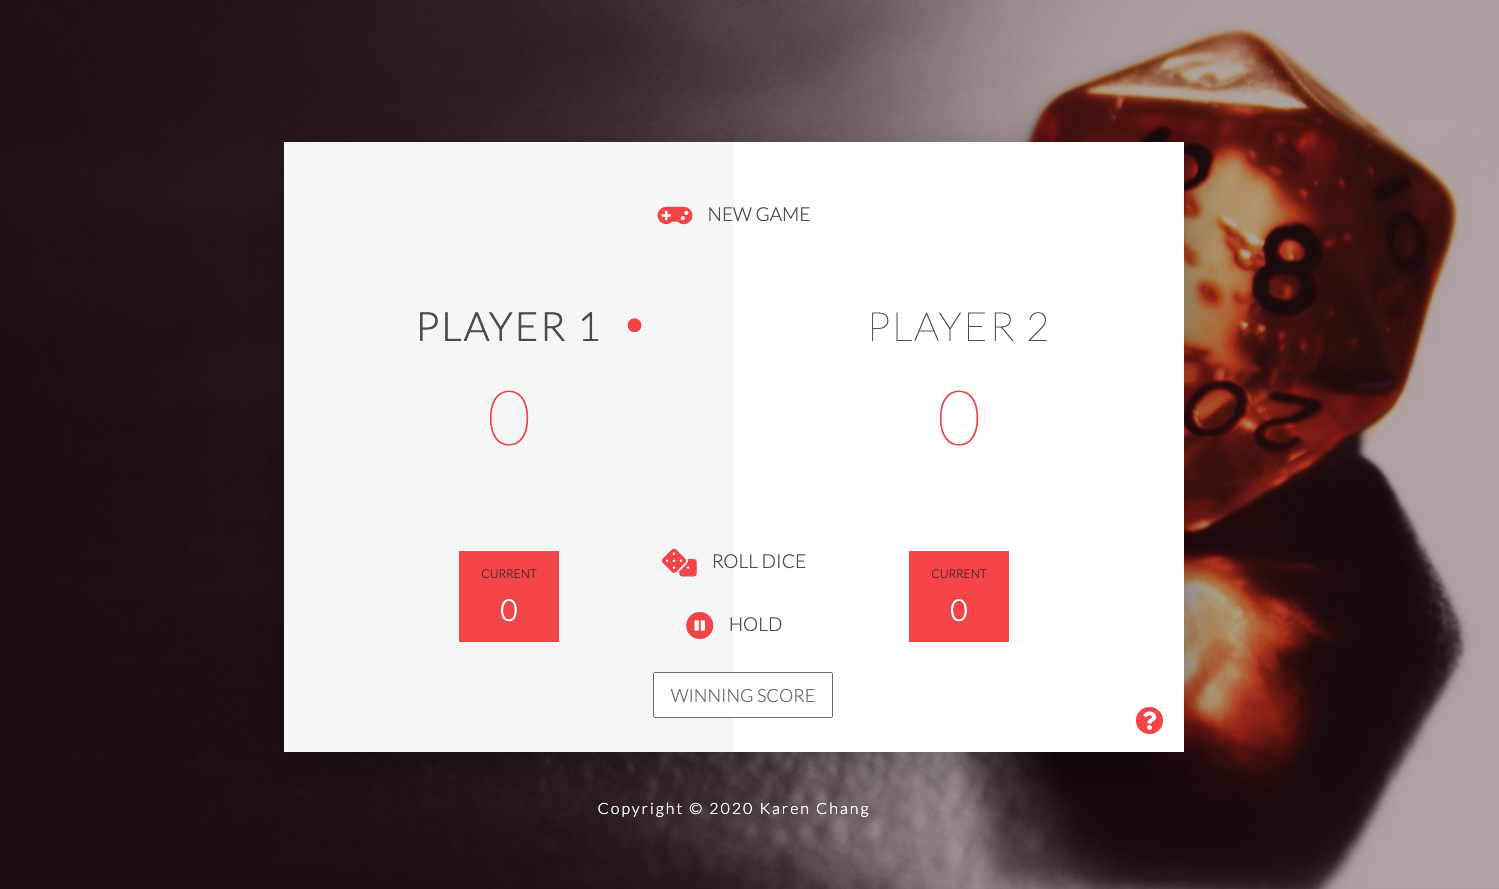
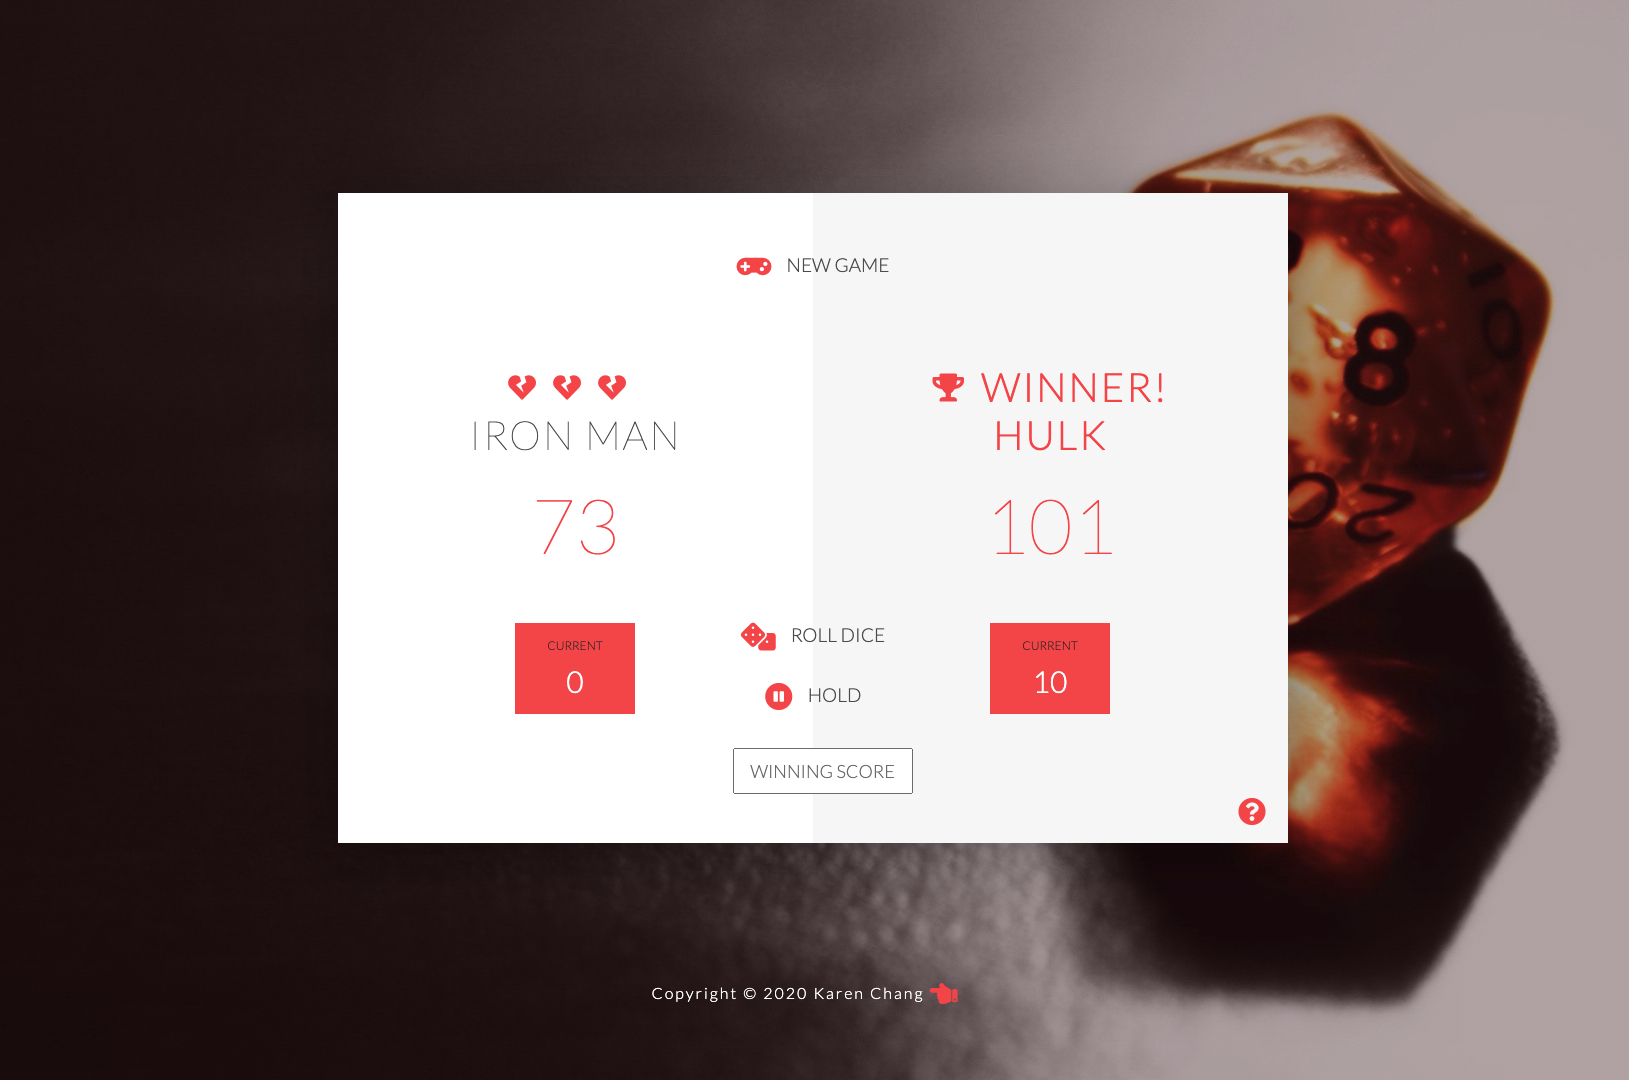
Update game rules

diff --git a/app.js b/app.js
@@ -17,18 +17,20 @@ init();
 document.querySelector('.btn-roll').addEventListener('click', function() {
     if(gamePlaying) {
         // 1. Random number
-        var dice = Math.floor(Math.random() * 6) + 1;
+        var dice1 = Math.floor(Math.random() * 6) + 1;
+        var dice2 = Math.floor(Math.random() * 6) + 1;
 
-        // 2. Display the result
-        var diceDOM = document.querySelector('.dice');
-        diceDOM.style.display = 'block';
-        diceDOM.src = 'dice-' + dice + '.png';
+        //2. Display the result
+        document.getElementById('dice-1').style.display = 'block';
+        document.getElementById('dice-2').style.display = 'block';
+        document.getElementById('dice-1').src = 'dice-' + dice1 + '.png';
+        document.getElementById('dice-2').src = 'dice-' + dice2 + '.png';
 
-        // 3. Update the round score if the rolled number was not a 1
-        if (dice !== 1) {
+        //3. Update the round score IF the rolled number was NOT a 1
+        if (dice1 !== 1 && dice2 !== 1) {
             //Add score
-            roundScore += dice;
-            document.getElementById('current-' + activePlayer).textContent = roundScore;
+            roundScore += dice1 + dice2;
+            document.querySelector('#current-' + activePlayer).textContent = roundScore;
         } else {
             //Next player
             nextPlayer();
@@ -58,8 +60,16 @@ document.querySelector('.btn-hold').addEventListener('click', function() {
         
         // Check if player won the game
         if (scores[activePlayer] >= winningScore) {
-            document.getElementById('name-' + activePlayer).innerHTML = '<i class="fas fa-trophy"></i>Winner!';
-            document.querySelector('.dice').style.display = 'none';
+            document.getElementById('name-' + activePlayer).insertAdjacentHTML('afterbegin', '<i class="fas fa-trophy"></i></i>winner!<br>');
+
+           if (activePlayer === 0){
+                document.getElementById('name-1').insertAdjacentHTML('afterbegin', '<i class="fas fa-heart-broken"></i><i class="fas fa-heart-broken"></i><i class="fas fa-heart-broken"></i><br>');
+            } else if (activePlayer === 1){
+                document.getElementById('name-0').insertAdjacentHTML('afterbegin', '<i class="fas fa-heart-broken"></i><i class="fas fa-heart-broken"></i><i class="fas fa-heart-broken"></i><br>');
+            }
+
+            document.getElementById('dice-1').style.display = 'none';
+            document.getElementById('dice-2').style.display = 'none';
             document.querySelector('.player-' + activePlayer + '-panel').classList.add('winner');
             document.querySelector('.player-' + activePlayer + '-panel').classList.remove('active');
             gamePlaying = false;
@@ -72,27 +82,14 @@ document.querySelector('.btn-hold').addEventListener('click', function() {
 
 // NEW GAME
 document.querySelector('.btn-new').addEventListener('click', init);
-
-function nextPlayer() {    
-    activePlayer === 0 ? activePlayer = 1 : activePlayer = 0;
-    roundScore = 0;
-
-    document.getElementById('current-0').textContent = '0';
-    document.getElementById('current-1').textContent = '0';
-
-    document.querySelector('.player-0-panel').classList.toggle('active');
-    document.querySelector('.player-1-panel').classList.toggle('active');
-   
-    document.querySelector('.dice').style.display = 'none';
-}
-
 function init() {
     scores = [0, 0];
     activePlayer = 0;
     roundScore = 0;
     gamePlaying = true;
-    
-    document.querySelector('.dice').style.display = 'none';
+
+    document.getElementById('dice-1').style.display = 'none';
+    document.getElementById('dice-2').style.display = 'none';
 
     document.getElementById('score-0').textContent = '0';
     document.getElementById('score-1').textContent = '0';
@@ -105,6 +102,21 @@ function init() {
     document.querySelector('.player-0-panel').classList.remove('active');
     document.querySelector('.player-1-panel').classList.remove('active');
     document.querySelector('.player-0-panel').classList.add('active');
+}
+
+// NEXT PLAYER
+function nextPlayer() {    
+    activePlayer === 0 ? activePlayer = 1 : activePlayer = 0;
+    roundScore = 0;
+
+    document.getElementById('current-0').textContent = '0';
+    document.getElementById('current-1').textContent = '0';
+
+    document.querySelector('.player-0-panel').classList.toggle('active');
+    document.querySelector('.player-1-panel').classList.toggle('active');
+
+    document.getElementById('dice-1').style.display = 'none';
+    document.getElementById('dice-2').style.display = 'none';
 }
 
 // HELP

diff --git a/index.html b/index.html
@@ -13,7 +13,7 @@
         
         <div class="wrapper clearfix">
             <div class="player-0-panel active">
-                <div class="player-name" id="name-0">Player 1</div>
+                <div class="player-name" id="name-0" contenteditable="true">Player 1</div>
                 <div class="player-score" id="score-0">43</div>
                 <div class="player-current-box">
                     <div class="player-current-label">Current</div>
@@ -22,7 +22,7 @@
             </div>
             
             <div class="player-1-panel">
-                <div class="player-name" id="name-1">Player 2</div>
+                <div class="player-name" id="name-1" contenteditable="true">Player 2</div>
                 <div class="player-score" id="score-1">72</div>
                 <div class="player-current-box">
                     <div class="player-current-label">Current</div>
@@ -39,24 +39,30 @@
             <!-- Trigger/Open The help -->
             <button id="helpBtn" class="btn-help"><i class="fas fa-question-circle"></i></button>
 
-            <img src="dice-5.png" alt="Dice" class="dice">             
+            <img src="dice-5.png" alt="Dice" class="dice" id="dice-1">
+            <img src="dice-5.png" alt="Dice" class="dice" id="dice-2">           
     
         </div>
                
         <div class="copyright">  
-            <p>Copyright © 2020 Karen Chang</p>
+            <a class="mysite" href="https://karen-developer.com" target="_blank">Copyright © 2020 Karen Chang <i class="fas fa-hand-point-left"></i></a>
         </div>
 
         <!-- Help -->
         <div id="help" class="help">
            <div class="help-content">
               <span class="close">&times;</span>
-                 <p>Each turn, a player repeatedly rolls a die until either a 1 is rolled or the player decides to "hold":</p>
-                 <p>If the player rolls a 1, they score nothing and it becomes the next player's turn.</p>
-                 <p>If the player rolls any other number, it is added to their turn total and the player's turn continues.</p>
-                 <p>If a player chooses to "hold", their turn total is added to their score, and it becomes the next player's turn.</p>             
+                <h2>Game Rules</h2>                
+                 <p>Each turn, a player repeatedly rolls two dice until either a 1 is rolled or the player decides to "hold":</p>
+                 <ul>
+                 <li>If the player rolls a 1, they score nothing and it becomes the next player's turn.</li>
+                 <li>If the player rolls any other number, it is added to their turn total and the player's turn continues.</li>
+                 <li>If a player chooses to "hold", their turn total is added to their score, and it becomes the next player's turn.</li>             
+                </ul>                
                  <p>The first player to score 100 or more points wins.</p>
-                 <p>(Or you can manually set the winning score.)</p>
+                 <hr>
+                 <p> 🎲 You can manually set the WINNING SCORE.</p>
+                 <p> 🖌 You can click on PLAYER 1 or 2 to change their names.</p>
             </div>
         </div>       
 

diff --git a/style.css b/style.css
@@ -26,18 +26,49 @@ body {
     color: #555;
 }
 
-.copyright {
+h2 {
     text-align: center;
-    color:white;
+    text-transform: uppercase;
+    margin-bottom: 30px;
+}
+
+li {
+    margin-left: 50px;
+}
+
+hr {
+    margin: 20px 0;
+}
+
+.copyright {
+    display: flex;
+    flex-direction: column;
+    justify-content: center;
+    align-items: center;
+    text-align: center;    
     letter-spacing: 2px;
     position: relative;
-    top: 90%;
+    top: 91%;    
+}
+
+.mysite {
+    color:white;
+    text-decoration: none;
+    transition: transform 0.3s ease-out;
+}
+
+.mysite:hover {
+    transform: translateY(3px);
+}
+
+  .mysite i {
+    margin-top: -3px;
 }
 
 .wrapper {
-    width: 900px;
+    width: 950px;    
     position: absolute;
-    top: 50%;
+    top: 48%;
     left: 50%;
     transform: translate(-50%, -50%);
     background-color: #fff;
@@ -48,6 +79,7 @@ body {
 .player-0-panel,
 .player-1-panel {
     width: 50%;
+    height: 650px;
     float: left;
     padding: 100px;
 }
@@ -62,9 +94,13 @@ body {
     text-transform: uppercase;
     letter-spacing: 2px;
     font-weight: 100;
-    margin-top: 60px;
+    margin-top: 70px;
     margin-bottom: 20px;
     position: relative;
+}
+
+.player-name i {
+    margin-top: 11px;    
 }
 
 .player-score {
@@ -72,7 +108,6 @@ body {
     font-size: 76px;
     font-weight: 100;
     color: #EB4D4D;
-    
 }
 
 .active { background-color: #f7f7f7; }
@@ -81,17 +116,19 @@ body {
 .active .player-name::after {
     content: "\2022";
     font-size: 45px;
-    position: absolute;
+    position: relative;
     color: #EB4D4D;
-    top: -7px;
-    left: 95%;
+    top: -3px;
+    right: -5px;
 }
 
 .player-current-box {
     background-color: #EB4D4D;
     color: #fff;
-    width: 40%;
-    margin: 90px auto 10px;
+    position: absolute;
+    width: 120px;
+    top: 430px;
+    margin: 0 77px;
     padding: 15px;
     text-align: center;
 }
@@ -141,10 +178,10 @@ i {
 }
 
 .btn-new { top: 60px;}
-.btn-roll { top: 407px;}
-.btn-hold { top: 470px;}
+.btn-roll { top: 430px;}
+.btn-hold { top: 490px;}
 .btn-help {
-    top: 565px;
+    top: 605px;
     left: 97%;
 }
 
@@ -156,6 +193,9 @@ i {
     height: 100px;
     box-shadow: 0px 10px 60px rgba(0, 0, 0, 0.10);    
     }
+
+#dice-1 { top: 150px; }
+#dice-2 { top: 280px; }
 
 .winner { background-color: #f7f7f7; }
 .winner .player-name { 
@@ -169,7 +209,7 @@ i {
     position: absolute;
     left: 51%;
     transform: translateX(-50%);
-    top: 530px;
+    top: 555px;
     color: #555;
     font-size: 18px;
     font-family: 'Lato';
@@ -202,12 +242,12 @@ i {
 /* Help Content Box */
   .help-content {
     background-color: #fefefe;
-    margin: 20% auto; 
+    margin: 3% auto; 
     font-size: 24px;
-    line-height: 1.7em;
-    padding: 5%;
+    line-height: 1.8em;
+    padding: 4%;
     border: 1px solid #888;
-    width: 60%; 
+    width: 50%; 
   }
   
 /* The Close Button */
